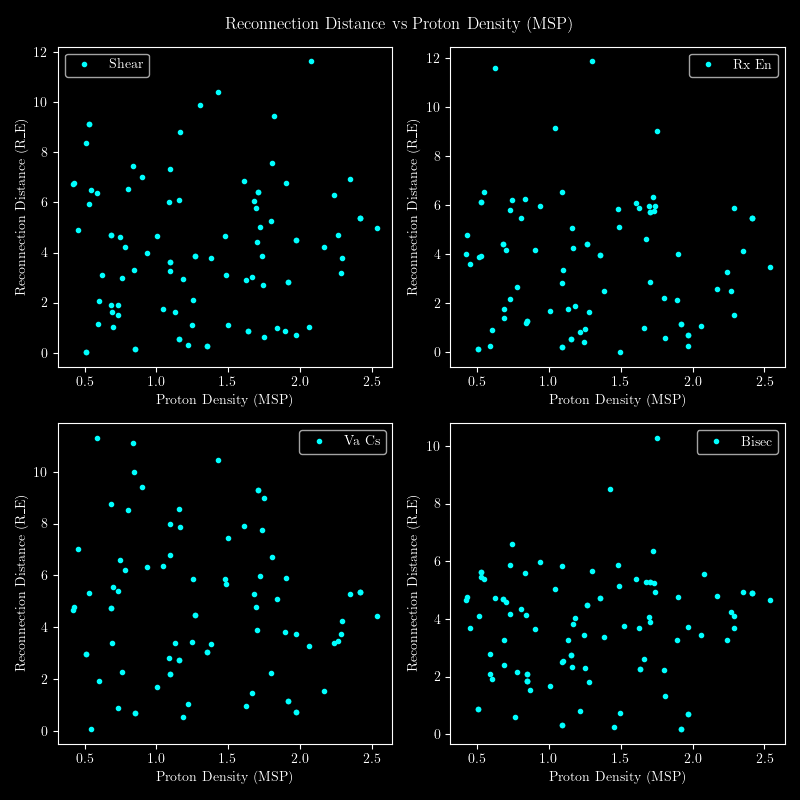
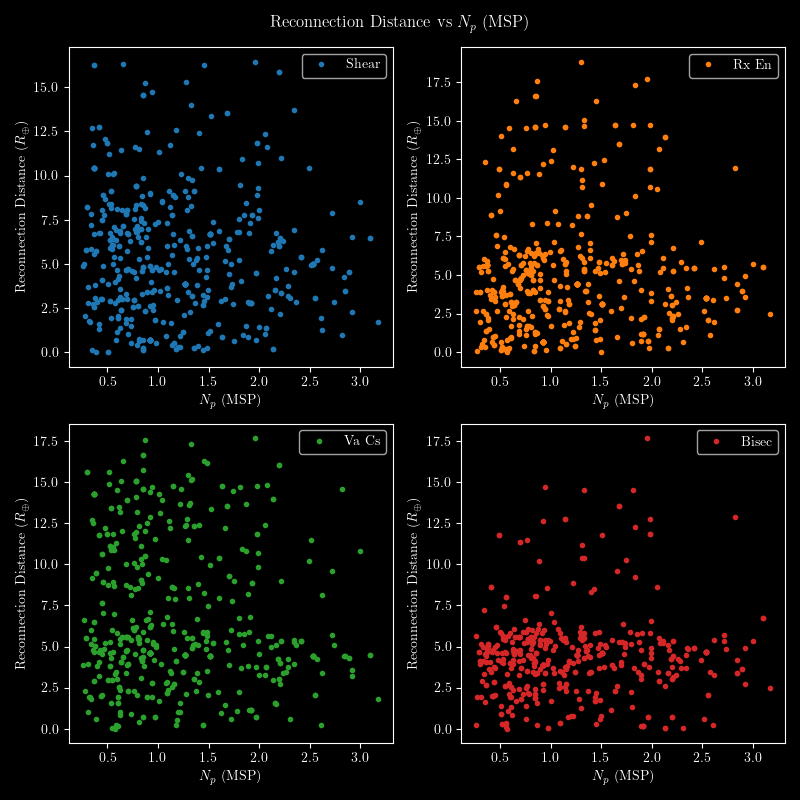
modified:   rc_stats.py 	modified:   rc_stats_fncs.py 	modified:   test_plot.py 	modified:   ../figures/rc_v_b_imf_x.png 	modified:   ../figures/rc_v_b_imf_y.png 	modified:   ../figures/rc_v_b_imf_z.png 	modified:   ../figures/rc_v_beta_msh_mean.png 	modified:   ../figures/rc_v_imf_clock_angle.png 	

diff --git a/codes/test_plot.py b/codes/test_plot.py
@@ -1,3 +1,18 @@
+import importlib
+import glob
+import numpy as np
+import matplotlib.pyplot as plt
+import pandas as pd
+
+file_name = "../data/rx_d/reconnection_line_data_mms3_20220927.csv"
+cut_type_list = ["jet", "walen1", "walen2", "walen_jet"]
+
+df = pd.read_csv(file_name, index_col=False)
+
+df_shear = df[df.method_used=="shear"]
+df_rx_en = df[df.method_used=="rx_en"]
+df_va_cs = df[df.method_used=="va_cs"]
+df_bisec = df[df.method_used=="bisection"]
 
 df_shear_imfz = df_shear[df_shear["b_imf_z"] < 0]
 df_rx_en_imfz = df_rx_en[df_rx_en["b_imf_z"] < 0]
@@ -15,7 +30,7 @@ df_va_cs["imf_clock_angle"] = df_va_cs["imf_clock_angle"].apply(
     lambda x: 360 - x if x > 180 else x)
 df_bisec["imf_clock_angle"] = df_bisec["imf_clock_angle"].apply(
     lambda x: 360 - x if x > 180 else x)
-plt.figure(figsize=(8,8))
+# plt.figure(figsize=(8,8))
 
 """
 ['Date', 'Probe', 'angle_b_lmn_vec_msp_msh_median', 'b_imf_x',
@@ -45,20 +60,51 @@ plt.figure(figsize=(8,8))
 """
 df_list = [df_shear, df_rx_en, df_va_cs, df_bisec]
 label = ["Shear", "Rx En", "Va Cs", "Bisec"]
-key = "b_imf_y"
-key2 = "IMF By"
+key_list = ["b_imf_z", "b_imf_x", "b_imf_y", "imf_clock_angle", "beta_msh_mean", "np_msp_median",
+            "tp_para_msp_median", "tp_perp_msp_median"]
+key2_list = ["IMF $B_{\\rm z}$", "IMF $B_{\\rm x}$", "IMF $B_{\\rm y}$", "IMF Clock Angle", "$\\beta_{\\rm p}$",
+             "$N_p$ (MSP)", "$Tp_{\\parallel}$", "$Tp_{\\perp}$"]
 
-plt.figure(figsize=(8,8))
-for i, df in enumerate(df_list):
-    plt.subplot(2, 2, i+1)
-    plt.plot(df[key], df.r_rc, c='aqua', marker=".", ls=None, lw=0, label=label[i])
-    plt.legend()
-    plt.xlabel(f"{key2}")
-    plt.ylabel("Reconnection Distance (R_E)")
-    # plt.xscale("log")
+color_list = ['#1f77b4', '#ff7f0e', '#2ca02c', '#d62728']
+dark_mode = True
 
-plt.suptitle(f"Reconnection Distance vs {key2}")
-plt.tight_layout()
+if dark_mode:
+    plt.style.use('dark_background')
+    tick_color = 'w' # color of the tick lines
+    mtick_color = 'w' # color of the minor tick lines
+    label_color = 'w' # color of the tick labels
+    clabel_color = 'w' # color of the colorbar label
+else:
+    plt.style.use('default')
+    tick_color = 'k' # color of the tick lines
+    mtick_color = 'k' # color of the minor tick lines
+    label_color = 'k' # color of the tick labels
+    clabel_color = 'k' # color of the colorbar label
+
+# Set the fontstyle to Times New Roman
+font = {'family': 'serif', 'weight': 'normal', 'size': 10}
+plt.rc('font', **font)
+plt.rc('text', usetex=True)
+
+
+for key, key2 in zip(key_list, key2_list):
+    plt.figure(figsize=(8,8))
+    for i, df in enumerate(df_list):
+        plt.subplot(2, 2, i+1)
+        plt.plot(df[key], df.r_rc, c=color_list[i], marker=".", ls=None, lw=0, label=label[i])
+        plt.legend()
+        plt.xlabel(f"{key2}")
+        plt.ylabel("Reconnection Distance $(R_\oplus)$")
+        if key == "beta_msh_mean":
+            plt.xscale("log")
+        # if key == "b_imf_z":
+        #     plt.xlim(-5, 5)
+
+        # Reverse the x-axis
+        if key == "imf_clock_angle":
+            plt.gca().invert_xaxis()
+    plt.suptitle(f"Reconnection Distance vs {key2}")
+    plt.tight_layout()
 
 #plt.plot(df_shear.imf_clock_angle, df_shear.r_rc, c='b', marker=".", ls=None, lw=0, label="Shear")
 #plt.plot(df_rx_en.imf_clock_angle, df_rx_en.r_rc, c='orange', marker=".", ls=None, lw=0)
@@ -66,4 +112,4 @@ plt.tight_layout()
 #plt.plot(df_bisec_imfz.imf_clock_angle, df_bisec_imfz.r_rc, c='r', marker=".", ls=None, lw=0, ms=5, alpha=0.5)
 #plt.plot(df_bisec.beta_msh_mean, df_bisec.r_rc, c='w', marker=".", ls=None, lw=0, ms=5, alpha=0.5)
 #plt.xscale('log')
-plt.savefig(f"../figures/rc_v_{key}.png")
+    plt.savefig(f"../figures/rc_v_{key}.png")

diff --git a/codes/rc_stats_fncs.py b/codes/rc_stats_fncs.py
@@ -28,7 +28,7 @@ label_pad = 5  # padding between label and axis
 
 def plot_hist(file_name, fig_size=(6,6), dark_mode=True, bins=8, fig_folder="../figures",
               fig_name="new", fig_format="pdf", histtype="step", linewidth=1, cut_type="jet",
-              r_lim=[0, 15]):
+              r_lim=[0, 15], density=False):
 
     df = pd.read_csv(file_name, index_col=False)
 
@@ -135,7 +135,7 @@ def plot_hist(file_name, fig_size=(6,6), dark_mode=True, bins=8, fig_folder="../
 
     # Plot the histogram of the shear data
     axs1 = plt.subplot(gs[0, 0])
-    axs1.hist(df_shear.r_rc, bins=bins, range=(0, 15),color='#1f77b4', alpha=0.5, density=False,
+    axs1.hist(df_shear.r_rc, bins=bins, range=(0, 15),color='#1f77b4', alpha=0.5, density=density,
              histtype=histtype, linewidth=linewidth)
     # Plot the median of the shear data and add atext to the line
     axs1.axvline(df_shear.r_rc.mean(), color='#1f77b4', linestyle='--', linewidth=2)
@@ -150,7 +150,7 @@ def plot_hist(file_name, fig_size=(6,6), dark_mode=True, bins=8, fig_folder="../
 
     # Plot the histogram of the rx_en data
     axs2 = plt.subplot(gs[0, 1])
-    axs2.hist(df_rx_en.r_rc, bins=bins, range=(0, 15), color='#ff7f0e', alpha=0.5,
+    axs2.hist(df_rx_en.r_rc, bins=bins, range=(0, 15), color='#ff7f0e', alpha=0.5, density=density,
              histtype=histtype, linewidth=linewidth)
     # Plot the median of the rx_en data and add atext to the line
     axs2.axvline(df_rx_en.r_rc.mean(), color='#ff7f0e', linestyle='--', linewidth=2)
@@ -165,7 +165,7 @@ def plot_hist(file_name, fig_size=(6,6), dark_mode=True, bins=8, fig_folder="../
 
     # Plot the histogram of the va_cs data
     axs3 = plt.subplot(gs[1, 0])
-    axs3.hist(df_va_cs.r_rc, bins=bins, range=(0, 15), color='#2ca02c', alpha=0.5,
+    axs3.hist(df_va_cs.r_rc, bins=bins, range=(0, 15), color='#2ca02c', alpha=0.5, density=density,
              histtype=histtype, linewidth=linewidth)
     # Plot the median of the va_cs data and add atext to the line
     axs3.axvline(df_va_cs.r_rc.mean(), color='#2ca02c', linestyle='--', linewidth=2)
@@ -180,7 +180,7 @@ def plot_hist(file_name, fig_size=(6,6), dark_mode=True, bins=8, fig_folder="../
 
     # Plot the histogram of the bisection data
     axs4 = plt.subplot(gs[1, 1])
-    axs4.hist(df_bisec.r_rc, bins=bins, range=(0, 15), color='#d62728', alpha=0.5,
+    axs4.hist(df_bisec.r_rc, bins=bins, range=(0, 15), color='#d62728', alpha=0.5, density=density,
              histtype=histtype, linewidth=linewidth)
     # Plot the median of the bisection data and add atext to the line
     axs4.axvline(df_bisec.r_rc.mean(), color='#d62728', linestyle='--', linewidth=2)

diff --git a/codes/rc_stats.py b/codes/rc_stats.py
@@ -24,7 +24,8 @@ for file_name in fnames:
             'histtype': 'step',
             'linewidth': 3,
             'cut_type': cut_type,
-            'r_lim': [0.1, 12]
+            'r_lim': [0.1, 12],
+            'density': True,
         }
 
         df_shear, df_rx_en, df_va_cs, df_bisec = rcsf.plot_hist(**fig_inputs)
